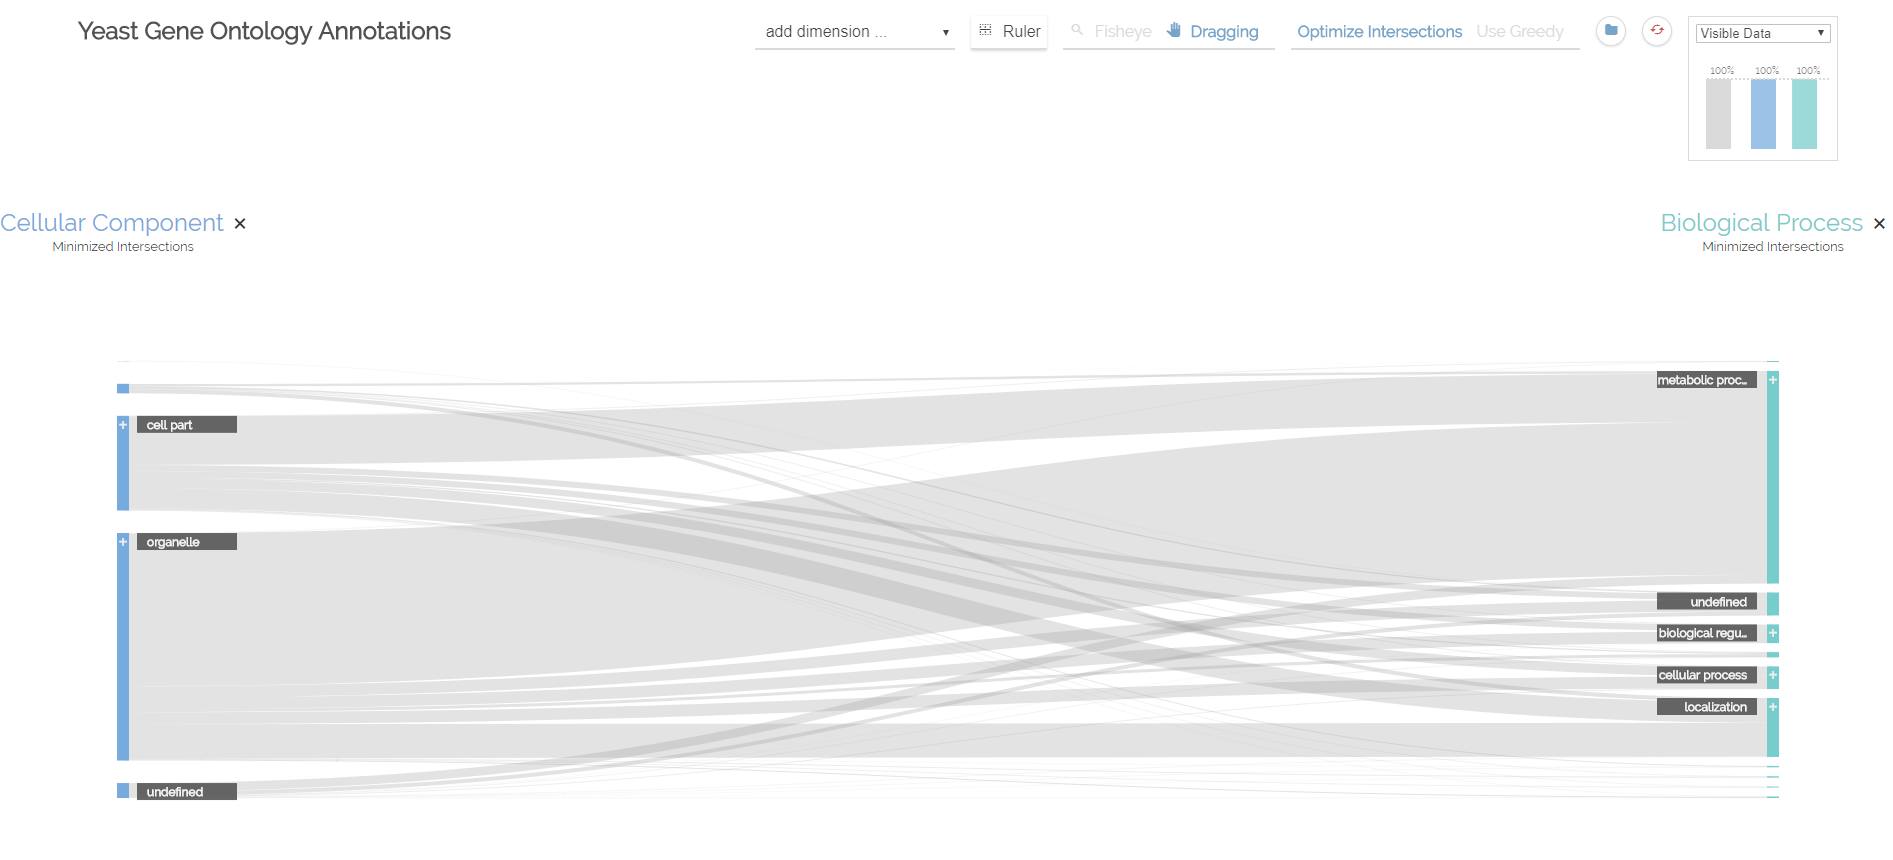
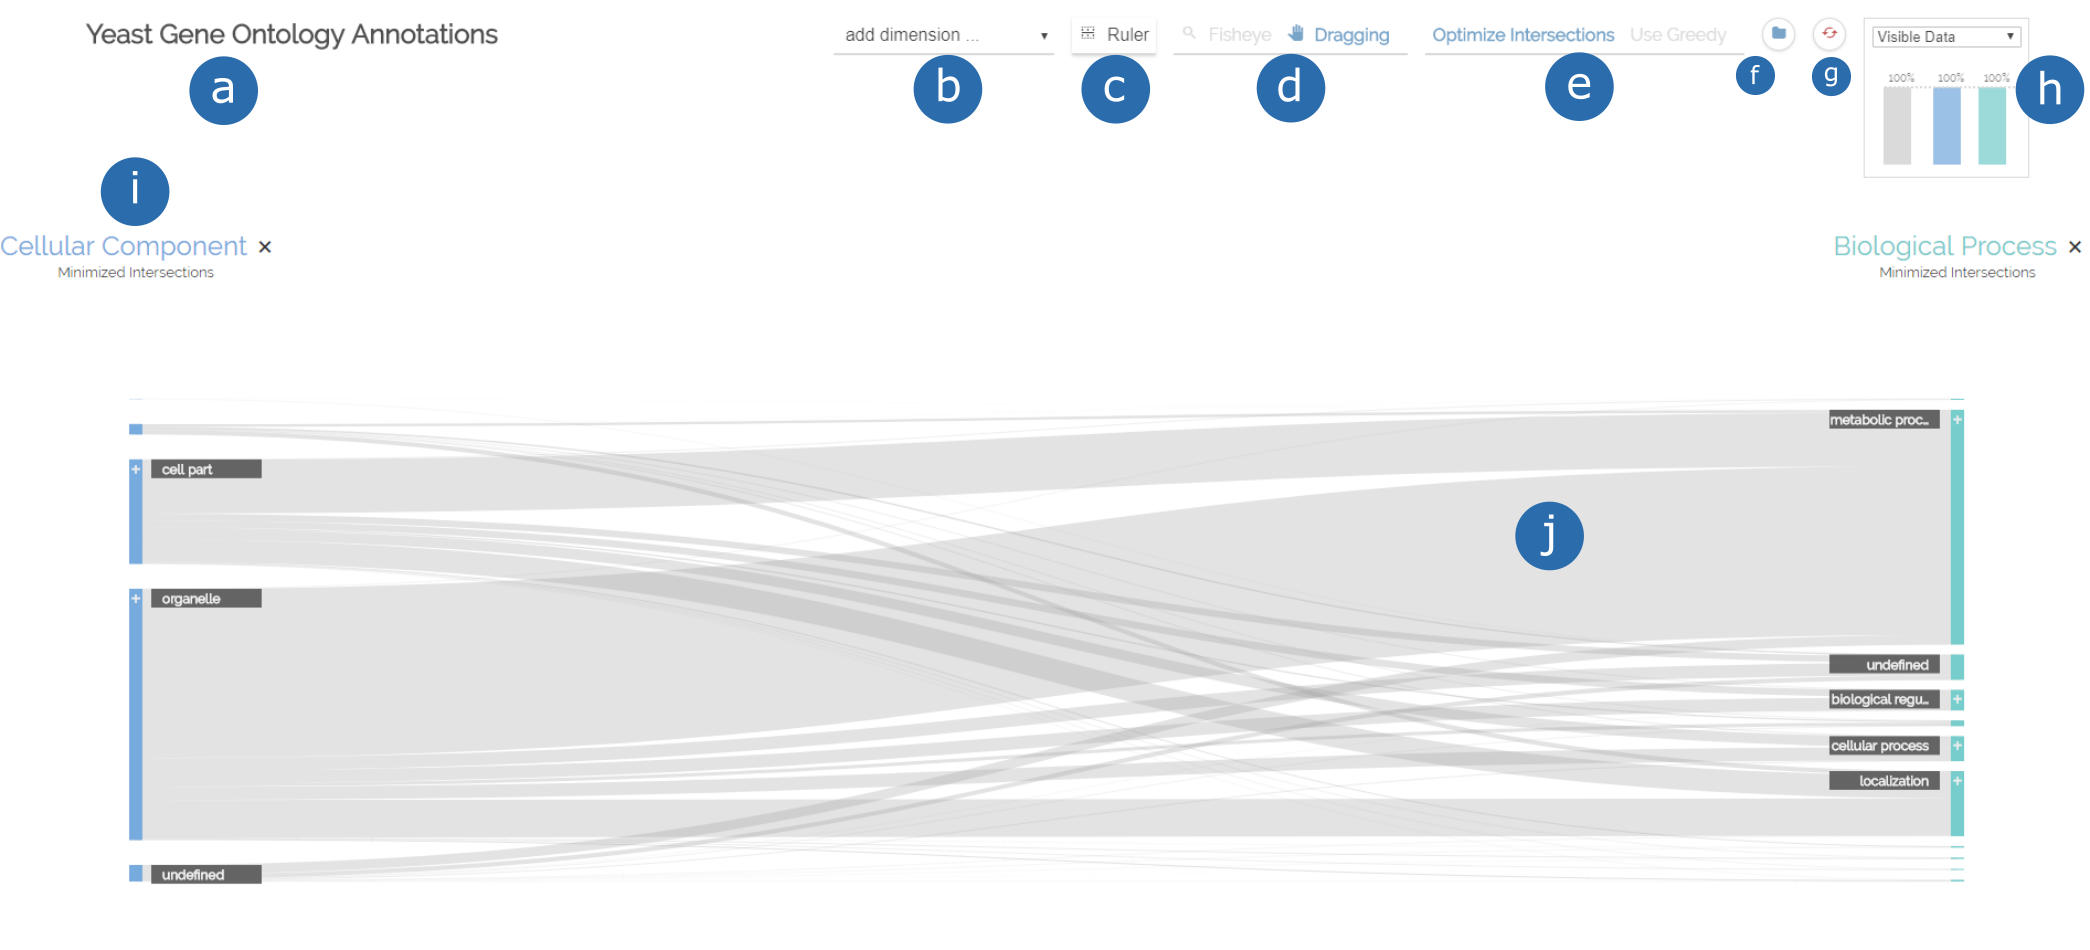
add: reference points in overview image

diff --git a/index.html b/index.html
@@ -76,21 +76,19 @@
 
         <h2>The View Components</h2>
         <p>Below you can see a screenshot from the visualization after selecting the Yeast Gene Ontology dataset. Let's have a look at the components of the visualization and how they are called:</p>
-        <img alt="screenshot of the Parallel Hierarchies visualization. Bezier paths of various widths connect two disjoint groups of rectangles that are stacked on top of each other, each on one side of the screen. Above some widgets." src="./img/overview.PNG" />
+        <img alt="screenshot of the Parallel Hierarchies visualization. Bezier paths of various widths connect two disjoint groups of rectangles that are stacked on top of each other, each on one side of the screen. Above some widgets." src="./img/overview.png" />
 
         <ol type="a">
           <li>title of the dataset</li>
           <li>dropdown menu to add new dimensions</li>
           <li>add a horizontal guideline for vertical height analysis</li>
           <li><a href="#cursor_interaction">switch cursor interaction</a></li>
-          <li><a href="#ribbon_minimization">toggle ribbon minimization with the barycentric method</a></li>
-          <li><a href="#ribbon_minimization">toggle a greedy optimization of the result of the barycentric method</a></li>
+          <li><a href="#ribbon_minimization">configure ribbon minimization</a></li>
           <li>pick a dataset</li>
           <li>reset the visualization to default values</li>
           <li><a href="#column_chart">Column chart</a></li>
           <li><a href="#dimension">a dimension</a></li>
-          <li><a href="#category">category of a dimension</a></li>
-          <li><a href="#ribbon">ribbon between categories of two neighboring dimensions</a></li>
+          <li><a href="#ribbon">a ribbon between two neighboring dimensions</a></li>
         </ol>
 
         <h2>Adding/Removing Dimensions</h2>
@@ -183,7 +181,7 @@
       </section>
 
       <section>
-        <h1>Visual Elements</h1>
+        <h1>Documentation</h1>
         <h2 id="dimension">Dimension</h2>
         <p><i>Represents a single facet of the dataset.</i></p>
         <img src="img/dimension.PNG" width=500 alt="Screenshot of a dimension in parallel hierarchies. The dimension is named 'Biological Process' and has the following visible categories: 'metabolic proc...', 'cellular process', 'localization', 'undefined', and 'biological reug...'. The 'undefined' category is highlighted." />
